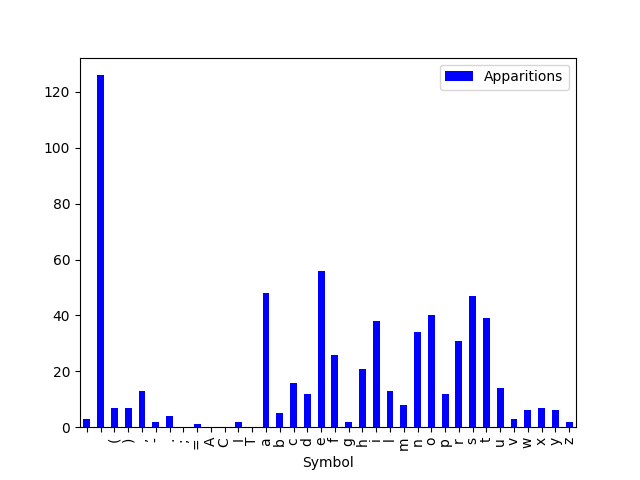
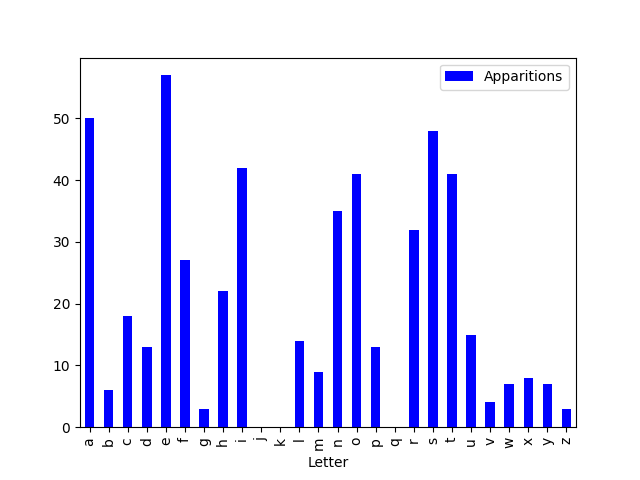
Fix percentage plot
fix percentage plot

Changed region(s): [[0.0625, 0.1562, 0.9062, 1.0]]

diff --git a/main.py b/main.py
@@ -26,7 +26,7 @@ Enter your option: ")
     # Plot the computed data, show it and save it
     app_pivot = data.pivot_table(index = target, values = 'Apparitions')
     app_pivot.plot(kind = 'bar', color = 'blue')
-    plt.savefig("output_data/graphByAparitions.png")
+    plt.savefig("output_data/graphByPercentage.png")
     plt.show()
 
     app_pivot = data.pivot_table(index = target, values = 'Percentage')
